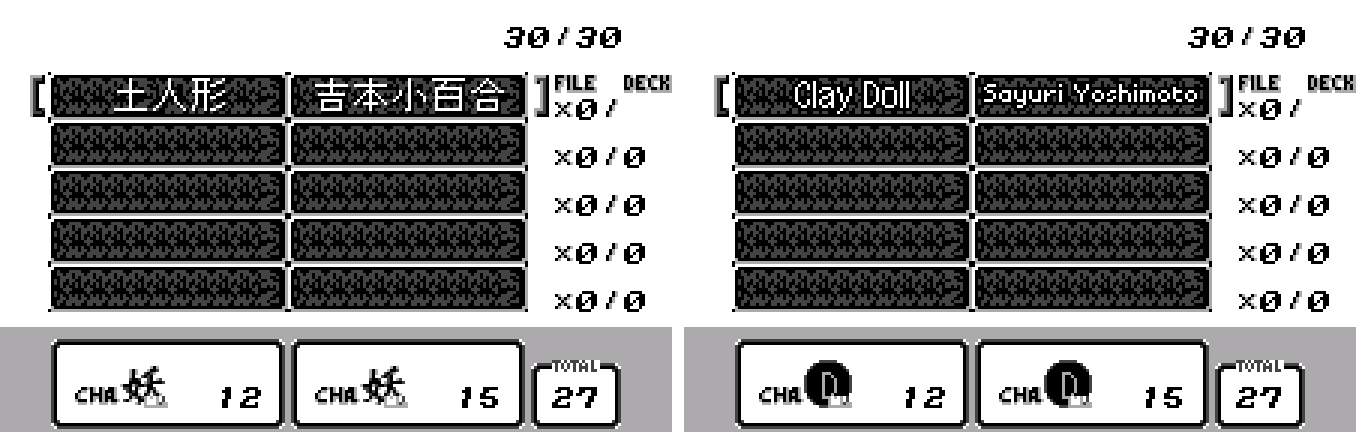
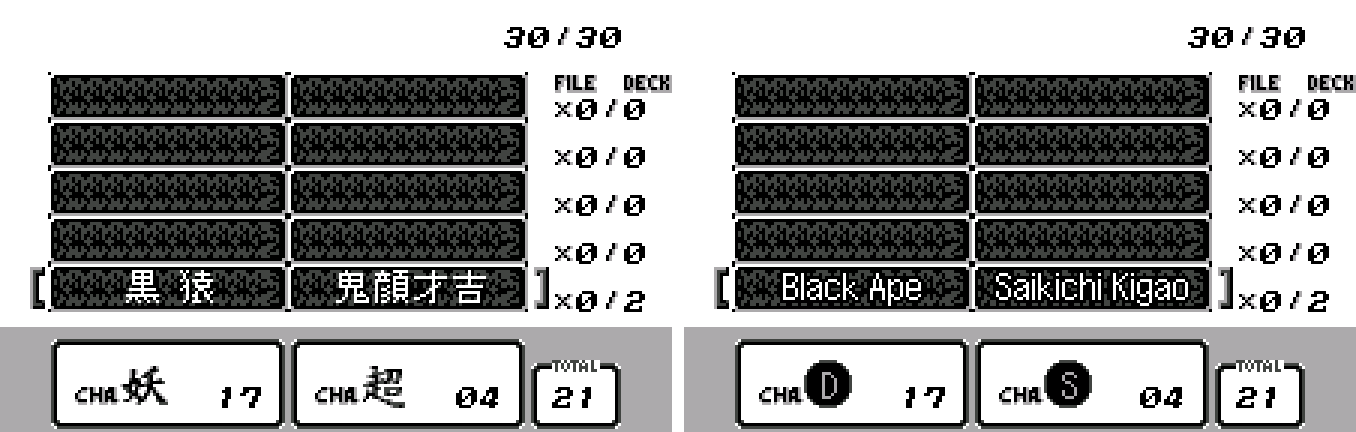
Youfu Makai 1.2: Card Craft crash on a new game fixed; game page, screenshots, catalog row

diff --git a/games/youfu-makai/README.md b/games/youfu-makai/README.md
@@ -1,4 +1,4 @@
-# Chou Denki Card Battle: Youfu Makai (WonderSwan) - AI English translation patch v1.1
+# Chou Denki Card Battle: Youfu Makai (WonderSwan) - AI English translation patch v1.2
 
 **Chou Denki Card Battle: Youfu Makai** (超伝奇カードバトル 妖符魔界) is a 1999 card battle game from Kobunsha and Kappa Games for the original (monochrome) WonderSwan, released only in Japan. The scenario is by Hideyuki Kikuchi (*Vampire Hunter D*, *Demon City Shinjuku*) and the art by Ayami Kojima. It's set in Kikuchi's Demon City Shinjuku, and its story runs in three parts, told as illustrated pages of prose between battles with Demon Cards. You build a 30-card deck, lay cards on a field where each card's arrows set the direction it attacks, and win by covering the field with your own cards.
 
@@ -20,10 +20,12 @@ Names: the hero of part 1 is never named, so he's "the Bodyguard". The two chara
 * A second, independent Claude reviewer checked the text against the Japanese, and a final separate review read the whole patch again; the names and story lines it questioned were corrected.
 * Every story page was rebuilt from the finished ROM and compared on screen, and a random walk through menus, story, decks and battles found no Japanese reaching the screen.
 * For 1.1, two independent Claude reviewers checked every card description against the Japanese, and all 200 card views were opened in the game and compared with the built pictures; a scan of the whole ROM for any other untranslated picture found the victory screen.
+* For 1.2, the crash a player filmed was reproduced on the patch and on the original Japanese game, traced to the game's start-up save check, and the fix was checked with the same button presses, a 2,000-step random walk on the deck screen, and blank, written and older saves.
 * The judgement calls were listed with the Japanese, a literal reading and the options, and I decided each one by hand: the logo, names and terms from Kikuchi's world, the menu titles, uncertain card readings, and a few deliberately ambiguous lines.
 
 **Changelog**
 
+* **v1.2**: fixes a crash in Card Craft. On a new game, taking a second card out of the deck turned the screen to garbage and restarted the game (thanks to the player who sent a video). The cause is in the original game: it accepts save memory that has never been written as a valid save, so on emulators and flash carts a new game started without its starter deck (the deck showed 30 Clay Dolls), and the Japanese game crashes the same way. The patch now writes the game's own default save when the save memory is blank, so a new game starts with the real starter deck: 30 cards, 15 different ones, two of each. The deck screen's list has a row for every card in the game, so on a new game it opens on empty rows; scroll down to reach your cards. Nothing else changes from 1.1, and existing saves are not touched (see Known issues). Apply the 1.2 patch to the original Japanese ROM, not to an English ROM.
 * **v1.1**: the 200 card descriptions in the Card Craft card view are translated (1.0 left them in Japanese; thanks to the player who reported it), and the card view's text sits a little further left. The victory screen, which 1.0 also missed, now reads VICTORY, and both result screens are hand-lettered into the art in the original's style instead of a black band. Nothing else changes, and 1.0 saves keep working. Apply the 1.1 patch to the original Japanese ROM, not to the 1.0 English ROM.
 * **v1.0**: first release.
 
@@ -110,9 +112,9 @@ Names: the hero of part 1 is never named, so he's "the Bodyguard". The two chara
 
    ![The battle rules shown before the deck screen](images/19-battle-rules.png)
 
-20. A card's description: Clay Doll
+20. A card's description: Black Ape
 
-   ![A card's description: Clay Doll](images/20-card-clay-doll.png)
+   ![A card's description: Black Ape](images/20-card-black-ape.png)
 
 21. Those in the Way (opponent list)
 
@@ -126,26 +128,27 @@ Names: the hero of part 1 is never named, so he's "the Bodyguard". The two chara
 
    ![Save data erased](images/23-save-erased.png)
 
-24. In battle: choosing a card (Clay Doll)
+24. In battle: choosing a card (Ichi-no-Ji)
 
-   ![In battle: choosing a card (Clay Doll)](images/24-battle-hand-clay-doll.png)
+   ![In battle: choosing a card (Ichi-no-Ji)](images/24-battle-hand-ichi-no-ji.png)
 
 **How to patch**
 
-Apply `youfu-makai-en-1.1.bps` to the Japanese ROM "Chou Denki Card Game - Youfu Makai - Kikuchi Shuukou (Japan)" (CRC32 56E2C069) in your browser with the [Swan Revival patcher](https://swanrevival.com/patcher/), or with Floating IPS, beat or ROM Patcher JS. The result should be CRC32 93B9E8EC.
+Apply `youfu-makai-en-1.2.bps` to the Japanese ROM "Chou Denki Card Game - Youfu Makai - Kikuchi Shuukou (Japan)" (CRC32 56E2C069) in your browser with the [Swan Revival patcher](https://swanrevival.com/patcher/), or with Floating IPS, beat or ROM Patcher JS. The result should be CRC32 AD600B55.
 
 The English ROM is 4 MB (the original is 2 MB), because the English story pages are stored as pictures: use an emulator or a flash cart that takes 32 Mbit WonderSwan ROMs. It's a WonderSwan (mono) game, so keep the .ws extension.
 
 You must provide your own copy of the original Japanese game to apply it.
 
-**Download:** `youfu-makai-en-1.1.bps` on the [release page](https://github.com/PokemonGoDB/wonderswan-english-patches/releases/tag/youfu-makai-v1.1).
+**Download:** `youfu-makai-en-1.2.bps` on the [release page](https://github.com/PokemonGoDB/wonderswan-english-patches/releases/tag/youfu-makai-v1.2).
 
 **Known issues**
 
 * It hasn't been played start to finish by a person. If you find leftover Japanese, cut text or a crash, please tell me where it happened.
 * A few card names are best guesses at readings that no source confirms; the same goes for a few names in the card descriptions.
-* Some RetroArch setups crash on the Card Craft screen with the original Japanese game too; Mesen 2 or Mednafen run it correctly.
-* A new game owns only the two starting cards, so only their descriptions can be viewed until you win more.
+* Saves from 1.0 and 1.1 keep working. But if your deck shows 30 Clay Dolls and you have already played on that save, it started without the starter deck and can still crash in Card Craft: choose To Nothing on the main menu (it reads Reset when selected) and answer Yes, once, to get the starter deck. This erases that save's progress.
+* The 1.2 fix was checked in a Mednafen-based emulator only. If Card Craft still crashes for you, please tell me which emulator or flash cart you use.
+* With 29 cards in the deck, B does nothing until the deck holds 30 again (the original behaves the same).
 
 **Technical notes (for the curious)**
 

diff --git a/README.md b/README.md
@@ -15,7 +15,7 @@ English translation patches for Japanese-only WonderSwan and WonderSwan Color ga
 | [beatmania for WonderSwan](games/beatmania/README.md) (Practice mode) | WonderSwan | [1.0](https://github.com/PokemonGoDB/wonderswan-english-patches/releases/tag/beatmania-v1.0) | BPS | `324622C9` | `513EE998` |
 | [Anchorz Field](games/anchorz-field/README.md) | WonderSwan | [1.0](https://github.com/PokemonGoDB/wonderswan-english-patches/releases/tag/anchorz-field-v1.0) | BPS | `425EB893` | `34A7D483` |
 | [Bakusou Dekotora Densetsu for WonderSwan](games/dekotora/README.md) (+ special edition, may be buggy) | WonderSwan | [1.2](https://github.com/PokemonGoDB/wonderswan-english-patches/releases/tag/dekotora-v1.2) | BPS | `392DD813` | `53BF9C12` (special `7B5D5B73`) |
-| [Chou Denki Card Battle: Youfu Makai](games/youfu-makai/README.md) | WonderSwan | [1.1](https://github.com/PokemonGoDB/wonderswan-english-patches/releases/tag/youfu-makai-v1.1) | BPS | `56E2C069` | `93B9E8EC` |
+| [Chou Denki Card Battle: Youfu Makai](games/youfu-makai/README.md) | WonderSwan | [1.2](https://github.com/PokemonGoDB/wonderswan-english-patches/releases/tag/youfu-makai-v1.2) | BPS | `56E2C069` | `AD600B55` |
 | [Densha de Go!](games/densha-de-go/README.md) | WonderSwan | [1.0](https://github.com/PokemonGoDB/wonderswan-english-patches/releases/tag/densha-de-go-v1.0) | BPS | `B62E5DD0` | `A8ACDDA0` |
 | [Dokodemo Hamster](games/dokodemo-hamster/README.md) (+ Long Names edition, may be buggy) | WonderSwan | [1.0](https://github.com/PokemonGoDB/wonderswan-english-patches/releases/tag/dokodemo-hamster-v1.0) | BPS | `89E7D950` | `F67C5588` (Long Names `22F04AF5`) |
 | [Tane o Maku Tori: The Bird Who Sowed Seeds](games/tane-o-maku-tori/README.md) (+ WonderGate edition) | WonderSwan | [1.0](https://github.com/PokemonGoDB/wonderswan-english-patches/releases/tag/tane-o-maku-tori-v1.0) | BPS | `B1CAEC06` | `40EC6A1D` (WonderGate `63BC5043`) |
